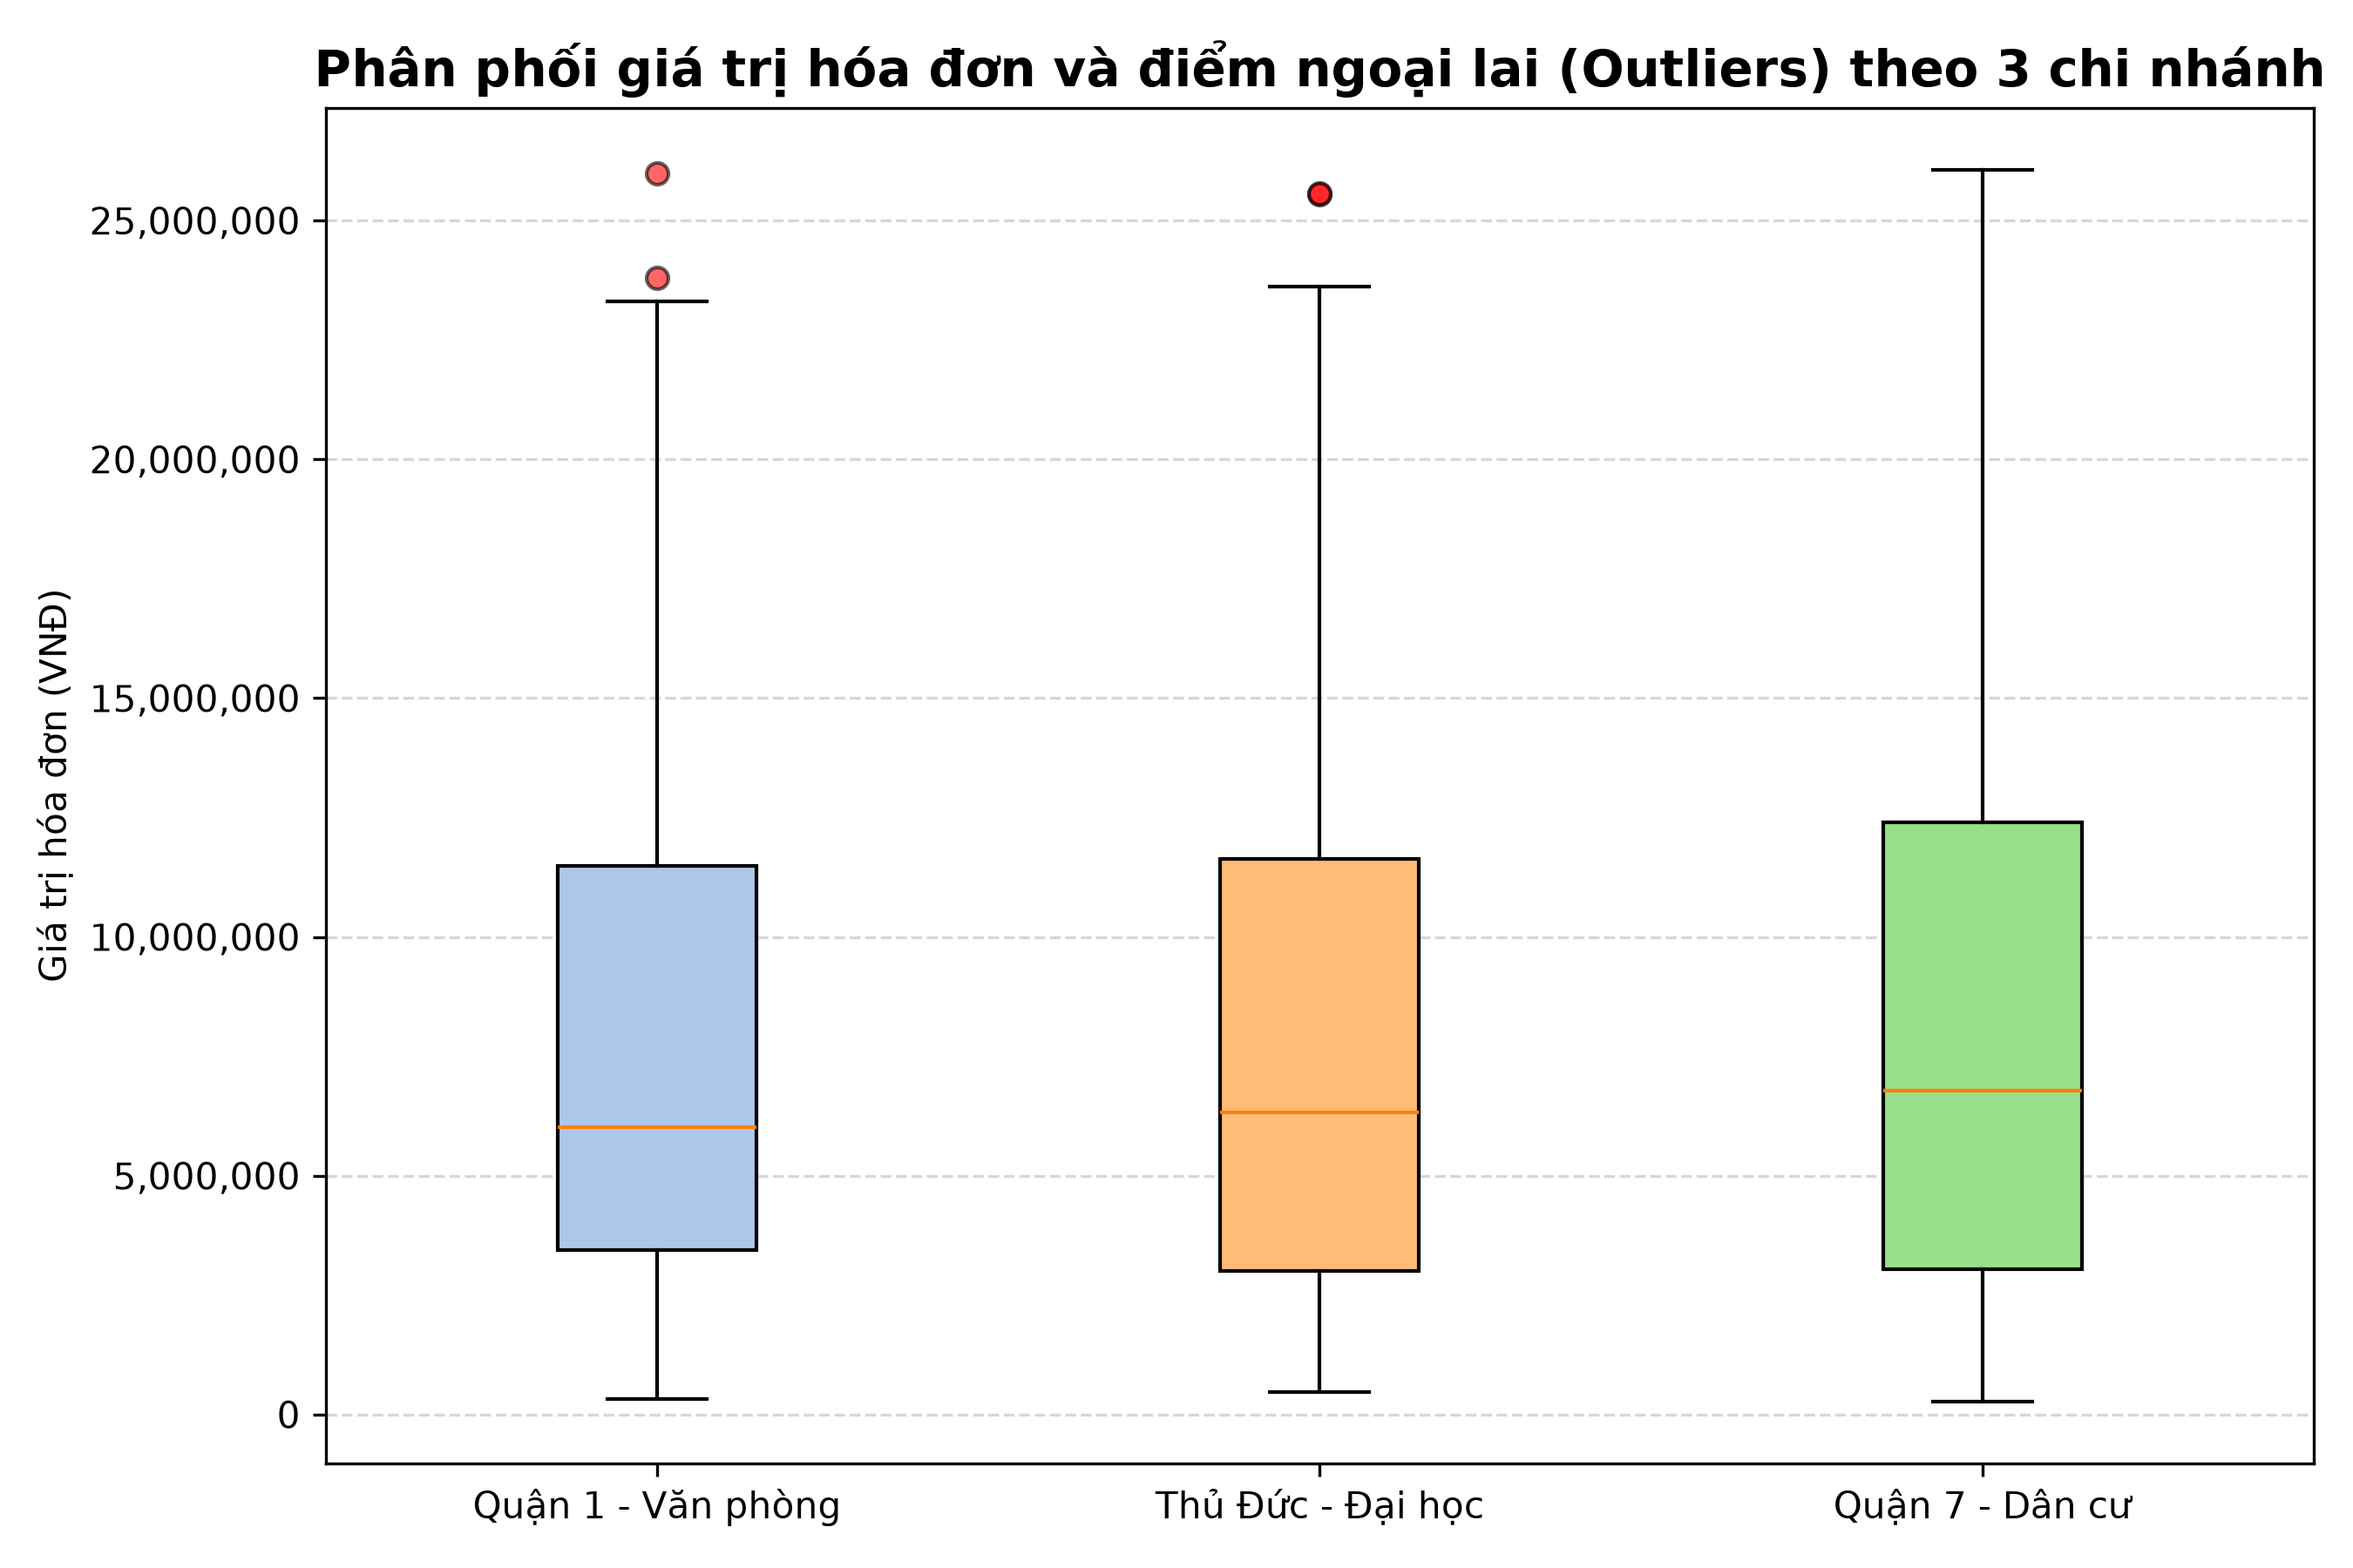
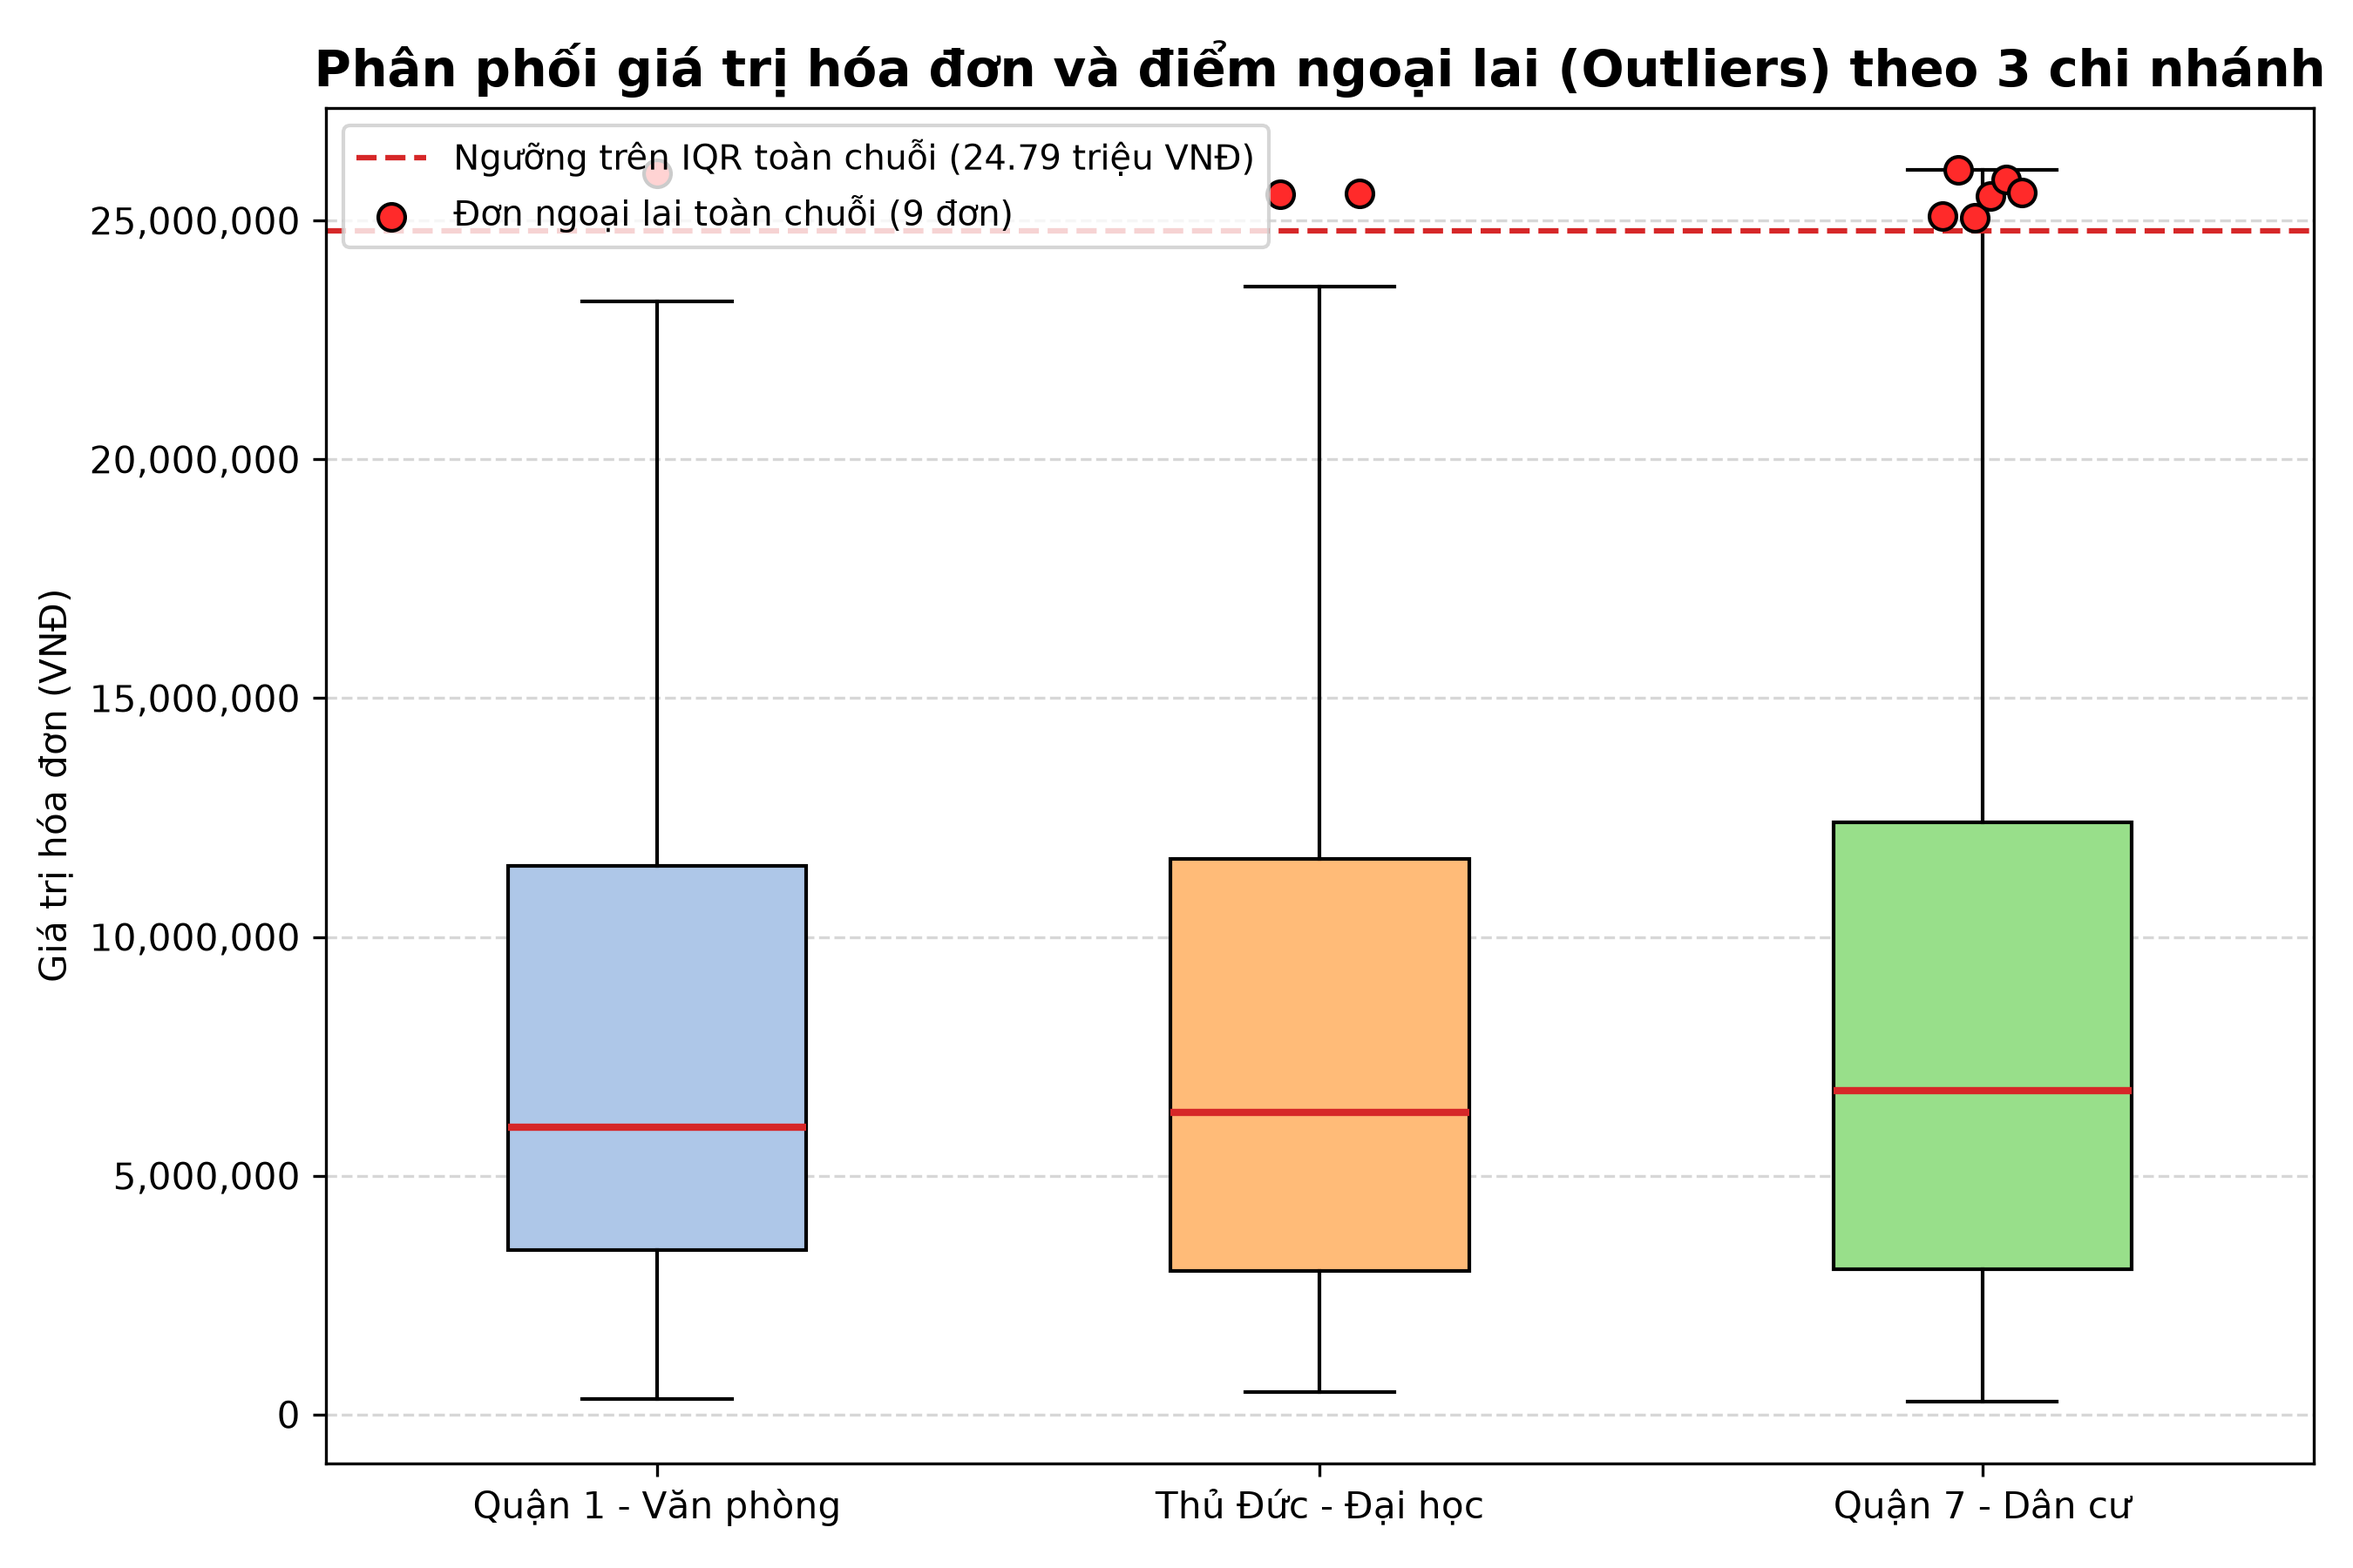
feat: sync visualizer boxplot outliers with report and finalize TV6 test suite

diff --git a/tests/test_pipeline.py b/tests/test_pipeline.py
@@ -1,0 +1,222 @@
+"""
+tests/test_pipeline.py - TV6: Bộ kiểm thử tự động (Unittest) cho toàn bộ pipeline.
+
+Chạy kiểm thử từ thư mục gốc dự án:
+    python -m unittest discover -s tests -v
+"""
+import contextlib
+import io
+import shutil
+import sys
+import tempfile
+import textwrap
+import unittest
+from pathlib import Path
+
+import numpy as np
+import pandas as pd
+
+BASE_DIR = Path(__file__).resolve().parent.parent
+if str(BASE_DIR) not in sys.path:
+    sys.path.insert(0, str(BASE_DIR))
+
+from src import (  # noqa: E402
+    insights,
+    multivariate_analysis,
+    preprocessing,
+    revenue_stats,
+    visualizer,
+)
+
+
+def _formatted_call(func, *args, **kwargs):
+    """Chạy hàm, giữ nguyên toàn bộ log in ra nhưng xuống dòng & thụt lề gọn gàng."""
+    buf = io.StringIO()
+    with contextlib.redirect_stdout(buf):
+        result = func(*args, **kwargs)
+    logs = buf.getvalue().strip()
+    if logs:
+        print("\n" + textwrap.indent(logs, "      | "), end="\n    ")
+    return result
+
+
+class TestConvenienceStorePipeline(unittest.TestCase):
+    """Kiểm thử toàn diện 5 bước xử lý dữ liệu, phân tích, vẽ biểu đồ và sinh nhận định."""
+
+    @classmethod
+    def setUpClass(cls):
+        """Khởi tạo thư mục tạm và chạy tiền xử lý dữ liệu thật một lần cho các test đọc."""
+        cls.raw_csv = BASE_DIR / "data" / "supermarket_sales.csv"
+        cls.temp_dir = Path(tempfile.mkdtemp(prefix="test_sales_vn_"))
+        cls.cleaned_csv = cls.temp_dir / "cleaned_sales_vn.csv"
+
+        if cls.raw_csv.exists():
+            print("\n" + "=" * 72)
+            print(" [SETUP] NẠP & TIỀN XỬ LÝ DỮ LIỆU THỰC TẾ (TV1)")
+            print("=" * 72, end="")
+            cls.df_clean = _formatted_call(
+                preprocessing.run_preprocessing,
+                str(cls.raw_csv),
+                str(cls.cleaned_csv),
+            )
+            print("\n" + "=" * 72)
+            if cls.df_clean is None:
+                cls.df_clean = pd.read_csv(cls.cleaned_csv, parse_dates=["Date"])
+        else:
+            cls.df_clean = cls._build_synthetic_clean_df()
+
+    @classmethod
+    def tearDownClass(cls):
+        """Dọn dẹp thư mục tạm sau khi hoàn tất toàn bộ ca kiểm thử."""
+        if cls.temp_dir.exists():
+            shutil.rmtree(cls.temp_dir, ignore_errors=True)
+
+    @staticmethod
+    def _build_synthetic_clean_df() -> pd.DataFrame:
+        return pd.DataFrame({
+            "Invoice ID": [f"INV-{i:03d}" for i in range(1, 13)],
+            "Branch": ["A", "B", "C"] * 4,
+            "KhuVuc_VN": ["Quận 1 - Văn phòng", "Thủ Đức - Đại học", "Quận 7 - Dân cư"] * 4,
+            "Product line": ["Food and beverages", "Health and beauty"] * 6,
+            "NhomHang_VN": ["Đồ ăn nhanh & Thức uống", "Chăm sóc cá nhân & Mỹ phẩm mini"] * 6,
+            "Total": [100.0, 200.0, 150.0, 300.0] * 3,
+            "Total_VND": [2_500_000.0, 5_000_000.0, 3_750_000.0, 7_500_000.0] * 3,
+            "Total_Clean": [100.0, 200.0, 150.0, 300.0] * 3,
+            "Total_VND_Clean": [2_500_000.0, 5_000_000.0, 3_750_000.0, 7_500_000.0] * 3,
+            "Gross_Income_VND": [119_000.0, 238_000.0, 178_500.0, 357_000.0] * 3,
+            "Quantity": [2, 4, 3, 6] * 3,
+            "Rating": [8.5, 7.2, 9.0, 6.8] * 3,
+            "Date": pd.date_range("2019-01-01", periods=12, freq="D"),
+            "Month": [1] * 12,
+            "DayOfWeek": ["Thứ 3", "Thứ 4", "Thứ 5", "Thứ 6", "Thứ 7", "Chủ nhật"] * 2,
+            "IsWeekend": [False, False, False, False, True, True] * 2,
+            "Hour": [10, 12, 15, 19] * 3,
+            "TimeSlot": ["10h-12h Sáng", "12h-14h Trưa", "14h-18h Chiều", "18h-21h Tối"] * 3,
+            "Payment_VN": ["Ví điện tử / QR", "Tiền mặt", "Thẻ ngân hàng"] * 4,
+        })
+
+    def test_01_preprocessing_and_vn_mapping(self):
+        """[TV1] Data Contract: đủ cột chuẩn, 0 NaN, tỷ giá VNĐ & ánh xạ chi nhánh VN."""
+        required_cols = [
+            "Invoice ID", "Branch", "KhuVuc_VN", "Product line", "NhomHang_VN",
+            "Total", "Total_VND", "Total_Clean", "Total_VND_Clean",
+            "Gross_Income_VND", "Date", "Month", "DayOfWeek", "IsWeekend",
+            "Hour", "TimeSlot", "Payment_VN",
+        ]
+        for col in required_cols:
+            self.assertIn(col, self.df_clean.columns, f"Thiếu cột bắt buộc: {col}")
+
+        self.assertEqual(int(self.df_clean[required_cols].isna().sum().sum()), 0)
+        diff = np.abs(self.df_clean["Total_VND"] - self.df_clean["Total"] * 25000.0).max()
+        self.assertLess(diff, 1e-3, "Sai lệch tỷ giá quy đổi Total_VND")
+
+        expected_branches = {"Quận 1 - Văn phòng", "Thủ Đức - Đại học", "Quận 7 - Dân cư"}
+        self.assertTrue(expected_branches.issubset(set(self.df_clean["KhuVuc_VN"].unique())))
+
+    def test_02_missing_value_imputation(self):
+        """[TV1] Tiêm giả lập NaN (số & chuỗi), xác minh điền khuyết median/mode đưa NaN về 0."""
+        df_dirty = pd.DataFrame({
+            "Invoice ID": ["A1", "A2", "A3", "A4", "A5"],
+            "Total": [100.0, np.nan, 200.0, 300.0, 400.0],
+            "Quantity": [2.0, 4.0, np.nan, 6.0, 8.0],
+            "Payment": ["Ewallet", "Ewallet", np.nan, "Cash", "Ewallet"],
+        })
+
+        df_fixed = _formatted_call(preprocessing.handle_missing_values, df_dirty.copy())
+
+        self.assertEqual(int(df_fixed.isna().sum().sum()), 0)
+        self.assertAlmostEqual(float(df_fixed.loc[1, "Total"]), 250.0)
+        self.assertAlmostEqual(float(df_fixed.loc[2, "Quantity"]), 5.0)
+        self.assertEqual(df_fixed.loc[2, "Payment"], "Ewallet")
+
+    def test_03_outlier_detection_iqr(self):
+        """[TV1] Chèn hóa đơn đột biến 50.000.000 VNĐ (2000 USD), kiểm tra phát hiện IQR & chặn Winsorizing."""
+        df_sample = pd.DataFrame({
+            "Invoice ID": [f"ID-{i}" for i in range(10)],
+            "Total": [100.0, 110.0, 120.0, 115.0, 105.0, 125.0, 130.0, 118.0, 122.0, 2000.0],
+        })
+
+        df_out = _formatted_call(
+            preprocessing.detect_and_handle_outliers,
+            df_sample.copy(),
+            col="Total",
+            method="iqr",
+        )
+
+        self.assertIn("Total_Clean", df_out.columns)
+        self.assertLess(float(df_out.loc[9, "Total_Clean"]), 2000.0)
+        self.assertAlmostEqual(float(df_out.loc[0, "Total_Clean"]), 100.0)
+
+    def test_04_revenue_consistency(self):
+        """[TV2 & TV3] Đối chiếu chéo tổng doanh thu giữa Ngày, Tháng, Mặt hàng và Pivot khớp 100%."""
+        expected_total = float(self.df_clean["Total_VND"].sum())
+
+        stats = revenue_stats.run_revenue_analysis(self.df_clean)
+        rev_day = float(stats["by_day"]["total_revenue"].sum())
+        rev_month = float(stats["by_month"]["total_revenue"].sum())
+        rev_product = float(stats["by_product"]["total_revenue"].sum())
+
+        hw_res = multivariate_analysis.analyze_hour_by_weekday(self.df_clean)
+        pivot_hw = hw_res[0] if isinstance(hw_res, tuple) else hw_res
+        rev_pivot = float(pivot_hw.to_numpy().sum())
+
+        self.assertAlmostEqual(rev_day, expected_total, delta=1.0)
+        self.assertAlmostEqual(rev_month, expected_total, delta=1.0)
+        self.assertAlmostEqual(rev_product, expected_total, delta=1.0)
+        self.assertAlmostEqual(rev_pivot, expected_total, delta=1.0)
+
+    def test_05_multivariate_pivot_and_insights(self):
+        """[TV3 & TV5] Kiểm tra ma trận đa chiều không chứa NaN và TV5 sinh đủ 4+ nhận định động."""
+        ct_res = multivariate_analysis.analyze_category_by_timeslot(self.df_clean)
+        pivot_ct = ct_res[0] if isinstance(ct_res, tuple) else ct_res
+
+        self.assertFalse(pivot_ct.isna().any().any())
+        self.assertGreaterEqual(pivot_ct.shape[0], 2)
+
+        stats = revenue_stats.run_revenue_analysis(self.df_clean)
+        stats["kpi"] = insights.compute_kpis(self.df_clean)
+        multi = {"category_timeslot": ct_res}
+
+        ins_list = insights.generate_business_insights(self.df_clean, stats, multi)
+        self.assertGreaterEqual(len(ins_list), 4)
+        for item in ins_list:
+            for key in ("id", "title", "finding", "evidence", "explanation", "action"):
+                self.assertIn(key, item)
+
+        report_path = self.temp_dir / "test_business_report.txt"
+        insights.export_text_report(ins_list, stats, report_path)
+        self.assertTrue(report_path.exists())
+        self.assertGreater(report_path.stat().st_size, 200)
+
+    def test_06_chart_generation(self):
+        """[TV4] Kiểm tra xuất đủ 5 biểu đồ PNG hợp lệ (dung lượng > 1 KB) trong thư mục đầu ra."""
+        chart_out_dir = self.temp_dir / "charts"
+        stats = revenue_stats.run_revenue_analysis(self.df_clean)
+        multi = {
+            "hour_weekday": multivariate_analysis.analyze_hour_by_weekday(self.df_clean),
+            "category_timeslot": multivariate_analysis.analyze_category_by_timeslot(self.df_clean),
+        }
+
+        _formatted_call(
+            visualizer.generate_all_charts,
+            self.df_clean,
+            stats,
+            multi,
+            output_dir=str(chart_out_dir),
+        )
+
+        expected_files = [
+            "01_doanh_thu_xu_huong.png",
+            "02_doanh_thu_mat_hang.png",
+            "03_heatmap_khung_gio_thu.png",
+            "04_da_chieu_hang_khung_gio.png",
+            "05_boxplot_phan_phoi_chi_nhanh.png",
+        ]
+        for fname in expected_files:
+            fpath = chart_out_dir / fname
+            self.assertTrue(fpath.exists(), f"Không tìm thấy biểu đồ: {fname}")
+            self.assertGreater(fpath.stat().st_size, 1024, f"Biểu đồ {fname} bị rỗng hoặc lỗi")
+
+
+if __name__ == "__main__":
+    unittest.main(verbosity=2)

diff --git a/src/visualizer.py b/src/visualizer.py
@@ -143,7 +143,41 @@ def plot_outlier_and_branch_boxplot(df, save_path):
     data_to_plot = [df[df['KhuVuc_VN'] == branch]['Total_VND'].dropna() for branch in branches]
 
     flierprops = dict(marker='o', markerfacecolor='red', markersize=6, alpha=0.6)
-    box = ax.boxplot(data_to_plot, patch_artist=True, flierprops=flierprops)
+    # Tính ngưỡng IQR toàn chuỗi (đồng bộ 100% với TV1 & TV5)
+    q1_all, q3_all = np.percentile(df["Total_VND"], [25, 75])
+    hi_all = q3_all + 1.5 * (q3_all - q1_all)
+
+    # Tắt fliers riêng lẻ của từng box để tránh lệch định nghĩa với báo cáo
+    box = ax.boxplot(
+        data_to_plot,
+        tick_labels=branches,
+        patch_artist=True,
+        showfliers=False,
+        widths=0.45,
+        medianprops=dict(color='#d62728', linewidth=2)
+    )
+
+    # Vẽ đường ngưỡng IQR toàn chuỗi
+    ax.axhline(
+        hi_all, color='#d62728', linestyle='--', linewidth=1.5,
+        label=f'Ngưỡng trên IQR toàn chuỗi ({hi_all/1e6:,.2f} triệu VNĐ)'
+    )
+
+    # Chấm đỏ đúng các hóa đơn outlier vượt ngưỡng toàn chuỗi trên từng chi nhánh
+    for idx, b_name in enumerate(branches, start=1):
+        vals = df.loc[df["KhuVuc_VN"] == b_name, "Total_VND"]
+        outliers = vals[vals > hi_all]
+        if not outliers.empty:
+            # Thêm jitter nhẹ theo trục X để các điểm gần nhau không đè khít lên nhau
+            jitter = np.linspace(-0.06, 0.06, len(outliers)) if len(outliers) > 1 else [0.0]
+            ax.scatter(
+                np.repeat(idx, len(outliers)) + jitter,
+                outliers,
+                color='#ff2a2a', edgecolor='black', s=55, zorder=5,
+                label='Đơn ngoại lai toàn chuỗi (9 đơn)' if idx == branches.index("Quận 7 - Dân cư") + 1 else ""
+            )
+
+    ax.legend(loc='upper left', fontsize=9.5)
 
     colors = ['#aec7e8', '#ffbb78', '#98df8a']
     for patch, color in zip(box['boxes'], colors):
